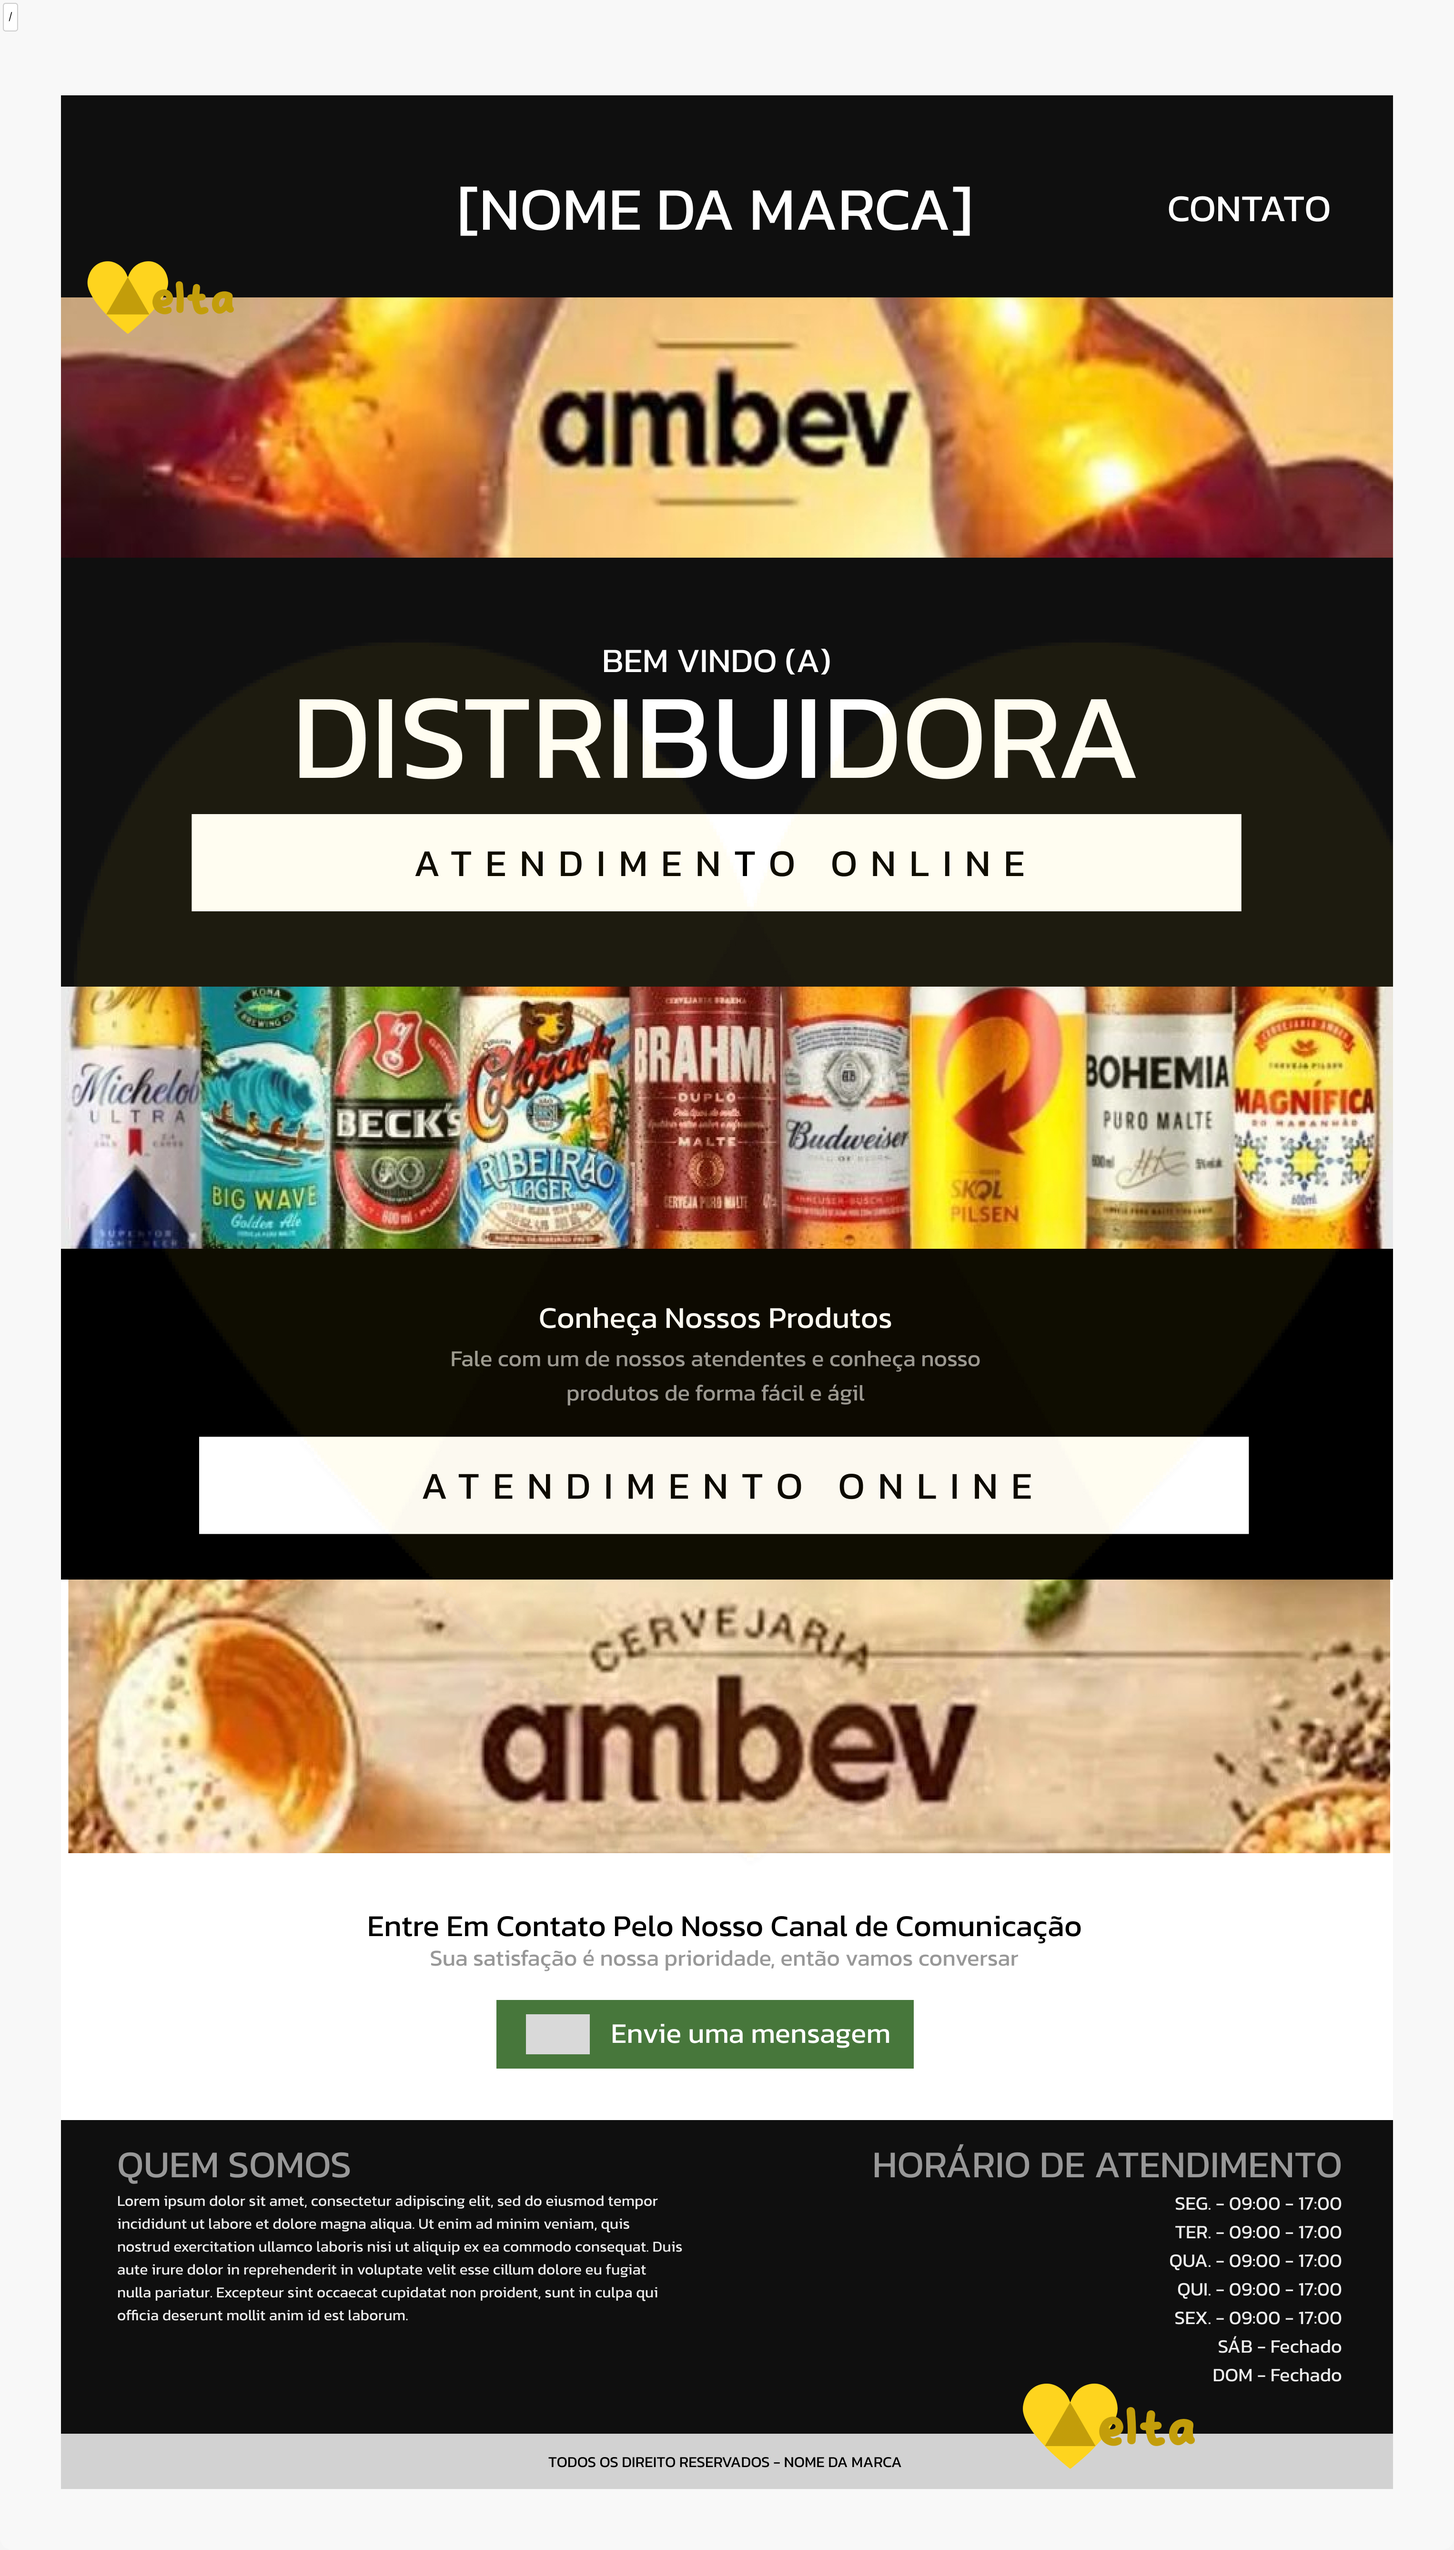
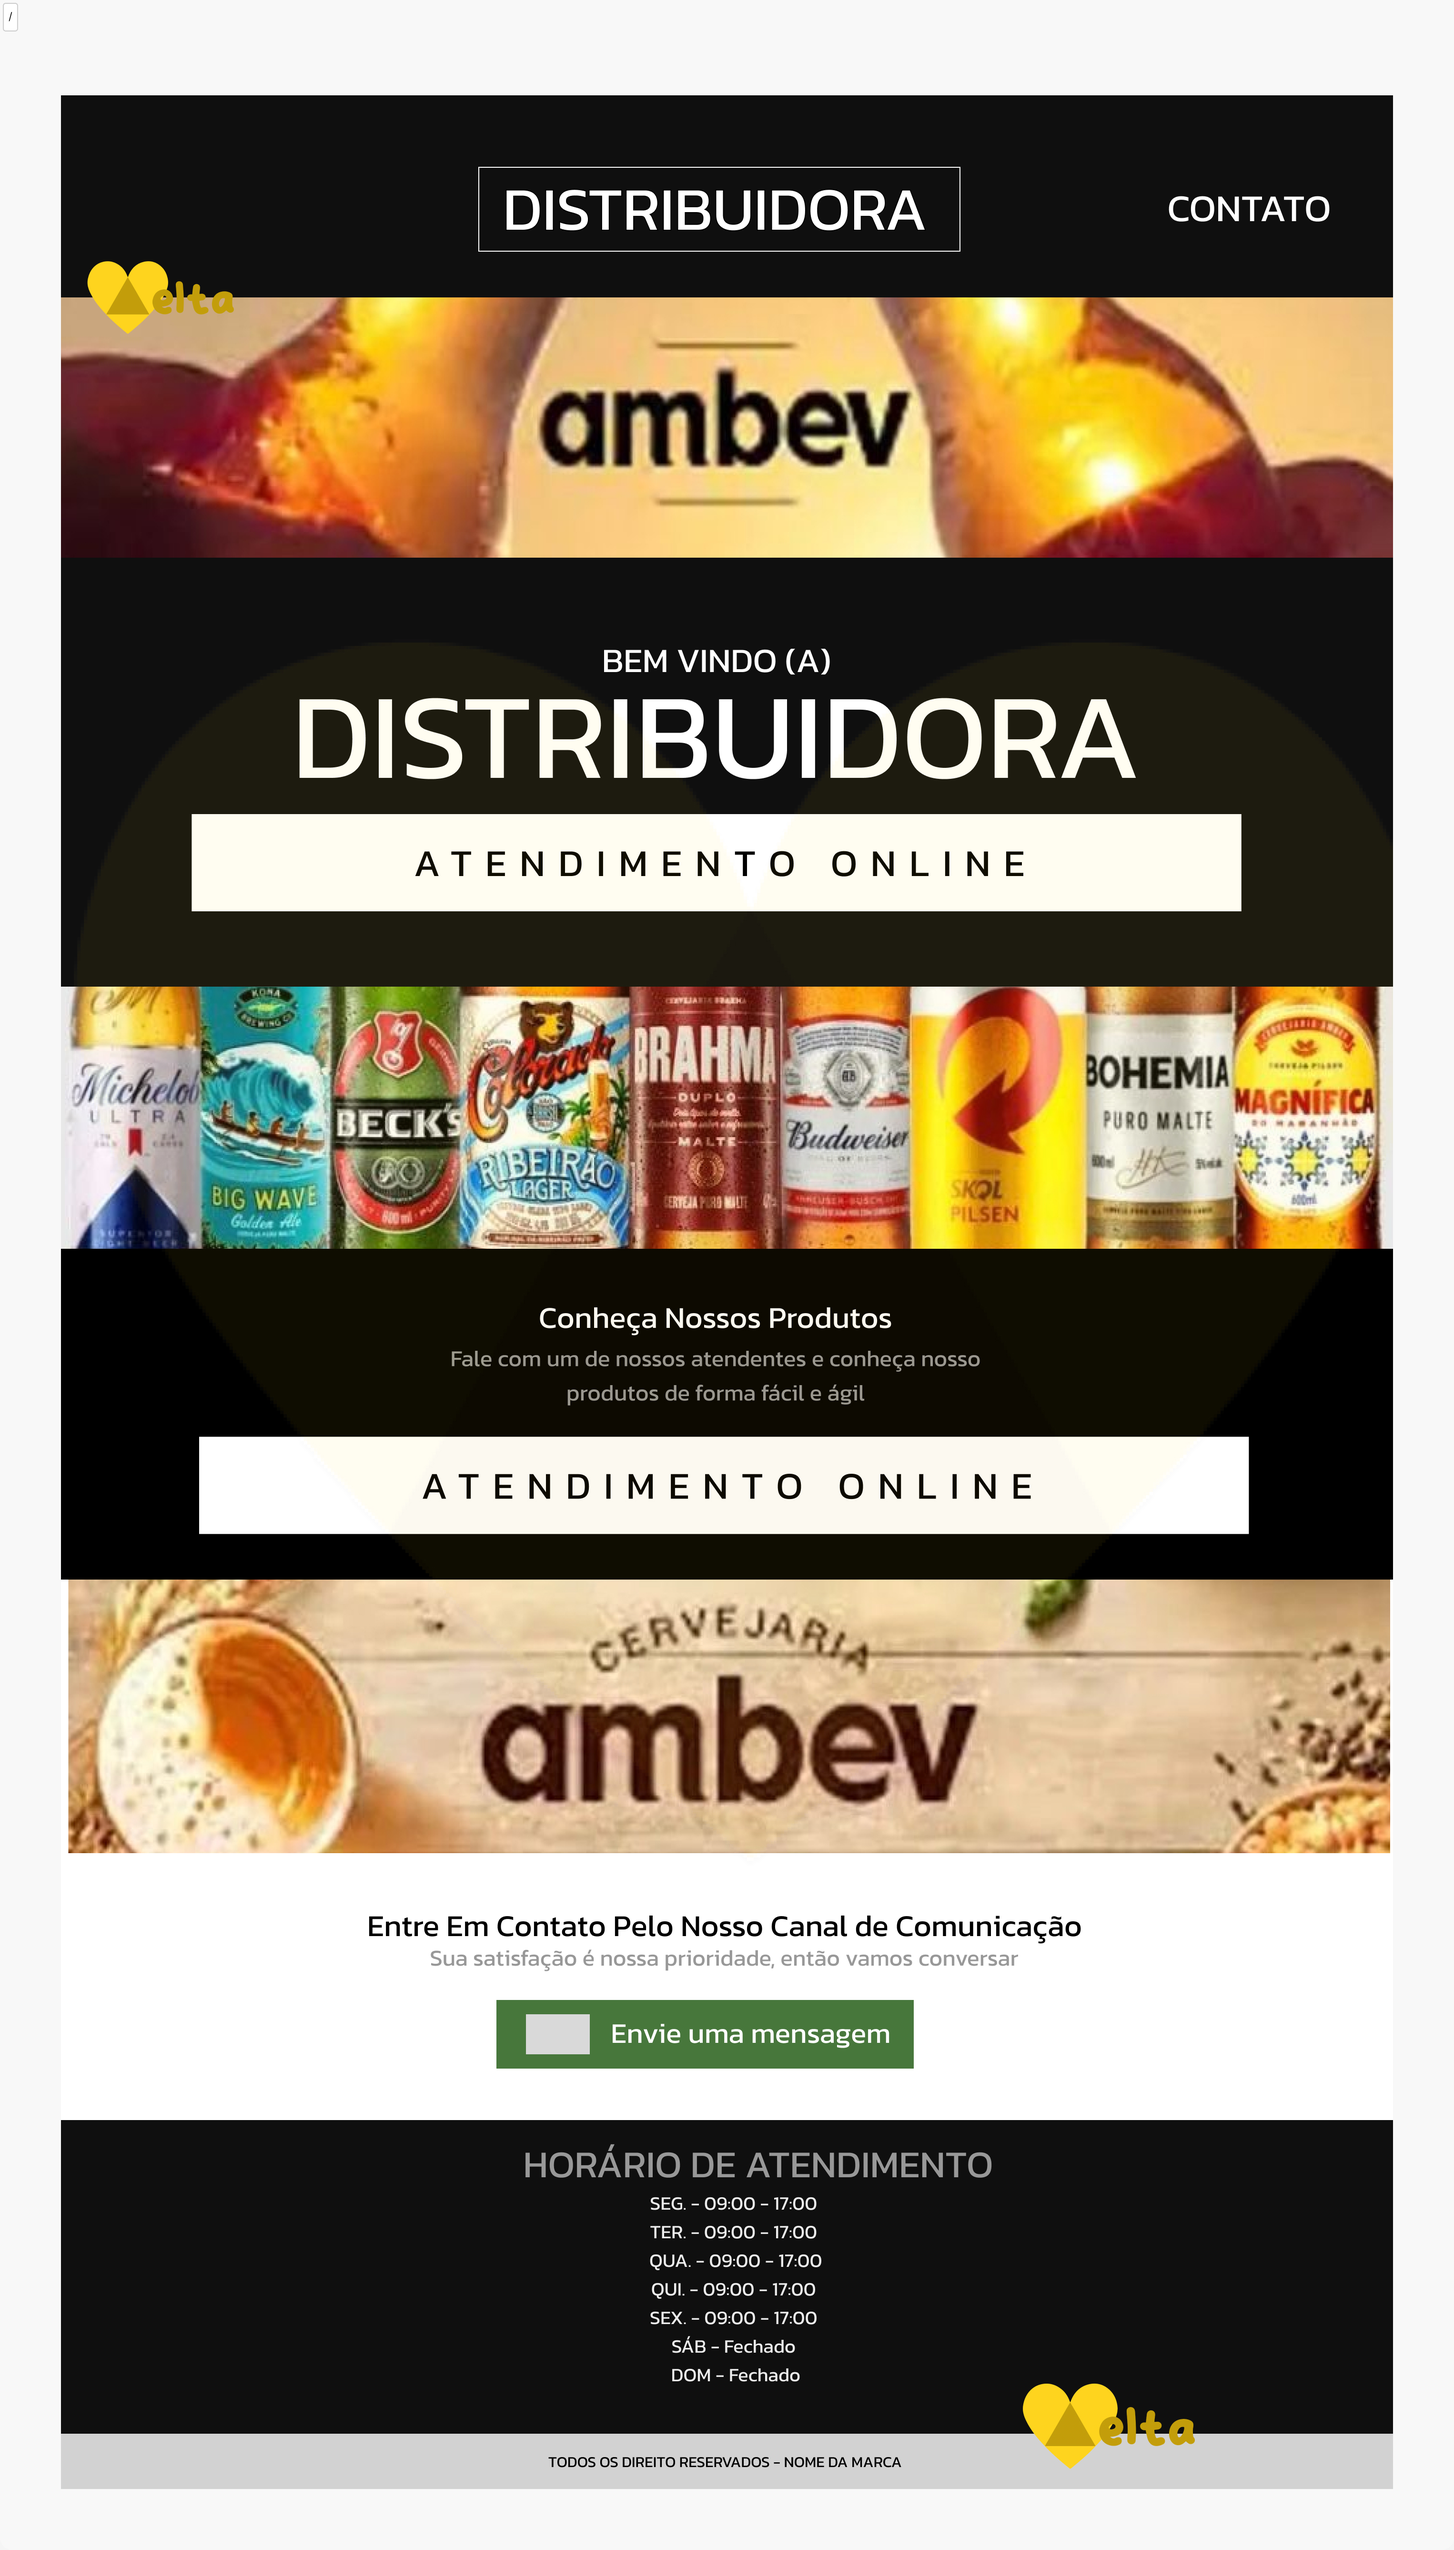
Atualização - 30/09/25
Criei o HTML e o CSS.

Changed region(s): [[0.0623, 0.8428, 0.9338, 0.9364], [0.3113, 0.0624, 0.6848, 0.0936]]

diff --git a/Homepage/index.html b/Homepage/index.html
@@ -1,12 +1,89 @@
 <!DOCTYPE html>
 <html lang="pt-br">
-<head>
-    <meta charset="UTF-8">
-    <meta name="viewport" content="width=device-width, initial-scale=1.0">
-    <title>Distribuidora</title>
-    
-</head>
-<body>
-    
-</body>
+    <head>
+        <meta charset="UTF-8">
+        <meta name="viewport" content="width=device-width, initial-scale=1.0">
+        <title>Distribuidora</title>
+
+        <link rel="shortcut icon" href="favicon.ico" type="image/x-icon">
+        <link rel="stylesheet" href="style.css">
+        <script src="https://kit.fontawesome.com/1e057c350f.js" crossorigin="anonymous"></script>
+    </head>
+    <body>
+        <header>
+            <h1>DISTRIBUIDORA</h1>
+
+            <div>
+                <nav>
+                    <a href="#contato">CONTATO</a>
+                </nav>
+            </div>
+        </header>
+
+        <div class="imgs">
+            <img src="/IMG/Logo da ambev.jpg" alt>
+        </div>
+
+        <main>
+            <section id="secao-1">
+
+                <h1>BEM VINDO (A)</h1>
+
+                <h2>DISTRIBUIDORA</h2>
+
+                <div>ATENDIMENTO ONLINE</div>
+            </section>
+        </main>
+
+        <div class="imgs">
+            <img src="/IMG/Garrafas alinhadas.jpg" alt>
+        </div>
+
+        <section id="secao-2">
+
+            <h1>Conheça Nossos Produtos</h1>
+
+            <h2>Fale com um de nossos atendentes e conheça nossos produtos de
+                forma fácil e ágil</h2>
+
+            <div class="atd-on">ATENDIMENTO ONLINE</div>
+        </section>
+
+        <div class="imgs">
+            <img src="/IMG/mesa ambev.jpg" alt>
+        </div>
+
+        <section id="contato">
+
+            <h1>Entre Em Contato Pelo Nosso Canal De Comunicação</h1>
+
+            <h2>Sua sastifação é nossa prioridade, então vamos conversar</h2>
+
+            <div id="whatzap">
+                <button>
+                    <a href="http://" target="_blank">
+                        <i class="fa-brands fa-whatsapp"></i>
+
+                        <p>Envie uma mensagem</p>
+                    </a>
+                </button>
+            </div>
+        </section>
+
+        <footer>
+            <div id="footer">
+                <h1>HORÁRIO DE ATENDIMENTO</h1>
+
+                <p>SEG. - 09:00 - 17:00</p>
+                <p>TER. - 09:00 - 17:00</p>
+                <p>QUA. - 09:00 - 17:00</p>
+                <p>QUI. - 09:00 - 17:00</p>
+                <p>SEX. - 09:00 - 17:00</p>
+                <p>SÁB. - Fechado</p>
+                <p>DOM. - Fechado</p>
+            </div>
+
+            <p>TODOS OS DIREITOS RESERVADO</p>
+        </footer>
+    </body>
 </html>

diff --git a/Homepage/style.css b/Homepage/style.css
@@ -1,0 +1,25 @@
+* {
+margin: 0;
+padding: 0;
+}
+
+header {
+background-color: #141414;
+padding: 10vh;
+color: white;
+display: flex;
+text-align: center;
+justify-content: space-around;
+}
+
+header h1 {
+padding: 20px;
+border: 20px;
+}
+
+header div a {
+color: white;
+padding: 10vh;
+text-decoration: none;
+justify-content: ;
+}
